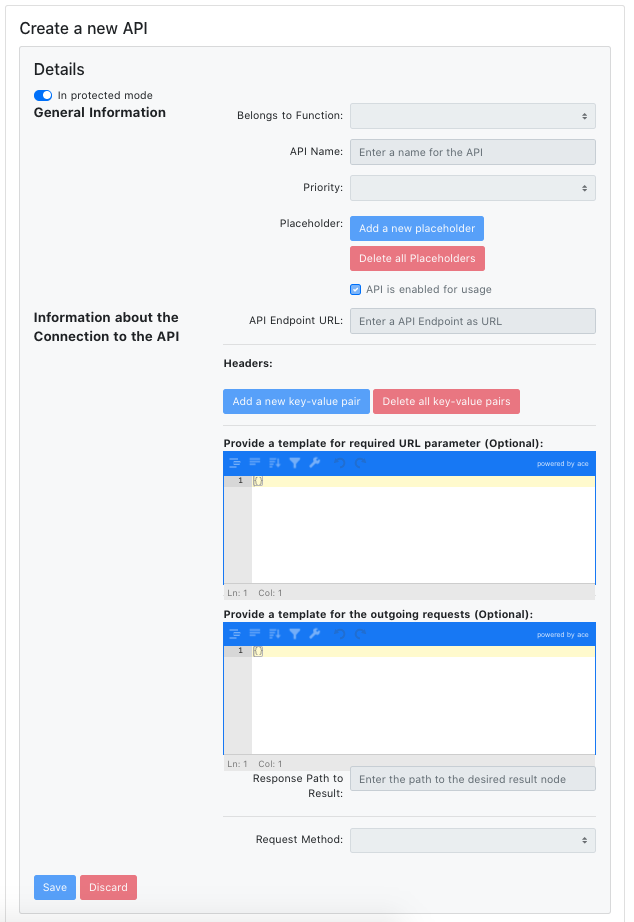
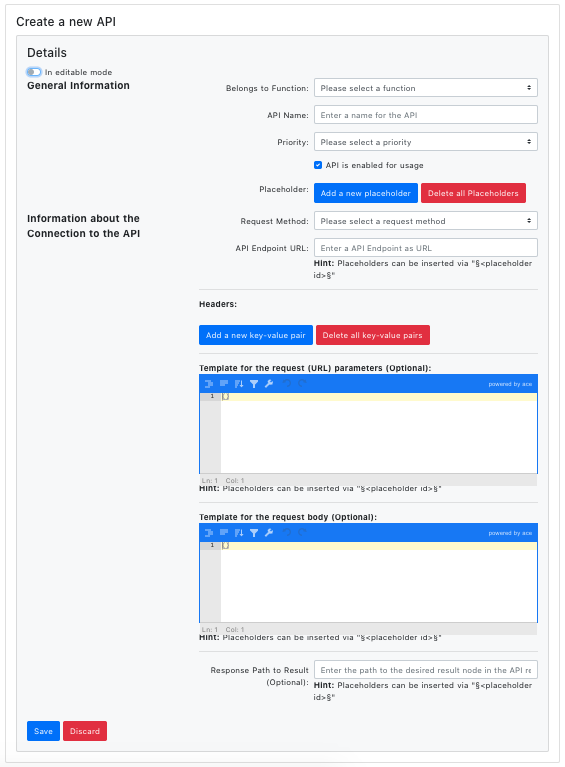
Changes requested by Tobias

diff --git a/user_guide/user_guide.md b/user_guide/user_guide.md
@@ -180,13 +180,13 @@ We now see a number of fields that can or have to be filled.
 
 **Category** specifies under which category the Function is listed in the Operations in the Routine creation.
 
-**Function ID** is a unique identifier for the Function that can be a custom string.
+**Function Name** is a unique identifier for the Function that can be a custom string.
 
 **Function Label** is the label that is displayed for the Operation in the Routine creation.
 
 A **result of a Function** is optional and can be deactived and activated with the "Function returns a Result Variable" checkbox.
 
-**Result ID** is a unique identifier for the result that can be a custom string.
+**Result Name** is a unique identifier for the result that can be a custom string.
 
 **Result Type** is the value type of the result.
 
@@ -198,7 +198,7 @@ A **result of a Function** is optional and can be deactived and activated with t
 
 **Function fields** are optional. They can be added and deleted. The button "Add a new field" adds an additional field. The button "Reset created fields" deletes all fields from this Function.
 
-**Field ID** is a unique identifier for the field that can be a custom string and can to be used in the API definition.
+**Field Name** is a unique identifier for the field that can be a custom string.
 
 **Field Type** is the value type of the field.
 
@@ -218,7 +218,7 @@ Here you can see an example of how the fields are defined for the "Retrieve Stoc
 
 #### Edit
 
-You can edit the fields Category and Function label as well as add addtional fields for existing Functions.
+You can edit the fields Category and Function label as well as add and remove fields for existing Functions. To avoid inconsistencies or a new validation of all existing APIs, it is not possible to make further changes to a function after its definition.
 
 *Click the "Edit existing Functions" button.*
 
@@ -263,15 +263,16 @@ In the editing mode you can also delete existing Functions. Please note that onc
 
 *Click on the switch next to "In protected mode" to make the fields editable.*
 
-We now see a number of fields that can or have to be filled according to the API call.
+We now see a number of fields to be filled in order to specify General Information about the API as well as how a call to this API must be performed in order to get the desired result for the associated function considering the specified function parameters.
+
 
 **Belongs to Function** is the Function that the API implements and can deliver a value for. Use the dropdown menu to select an existing Function.
 
 **API Name** is the name and unique identifier of the API.
 
-**Priority** specifies which API is used first for this Function. There are four different types of priority values: Preferred, High, Medium, Low. Preferred is the highest priority and can only be set onced. If set a second time, the former preferred API's priority will be downgraded.
+**Priority** specifies which order the APIs are used to evaluate this function (until one API call is successful). There are four different types of priority values: Preferred, High, Medium, Low. Preferred is the highest priority and can only be set once and is always assigned to exactly one API per Function. If set a second time, the former preferred API's priority will be downgraded. The preferred API determines which function fields are marked as required, i.e. must be specified when using this function, namely those fields that are required to apply this API.
 
-**Placeholders** are links to other values, namely Fields of the corresponding Function or results of other Functions. The Placeholder can be used in other parts of the API definition like Headers, Parameters or Body. You can use the Placeholders by inserting "§id§" where "id" is the id of the Placeholder. The string gets then replaced by the value of the placeholder i.e. field. You can *click the "Add a new placeholder", bin and "Delete all Placeholders" buttons to add and remove Placeholders.*
+**Placeholders** are Placeholders for other values, namely Fields of the corresponding Function or results of other Functions. The Placeholder can be used in other parts of the API definition: Parameters, response path or request body. You can use the Placeholders by inserting "§id§" where "id" is the id of the Placeholder. When an API is called, at first the placeholders are evaluated and afterwards this string gets then replaced by the evaluated value of the placeholder with the certain id.. The exact value of a placeholder is only known when the function is invoked, e.g. because it depends on inputs specified by the user. You can *click the "Add a new placeholder", bin and "Delete all Placeholders" buttons to add and remove Placeholders.*
 
 <br/>
 <kbd>
@@ -294,9 +295,9 @@ Alternatively to replacing the Placeholder by a Function field it can also be re
 
 **Placeholder Function name** specifies the Function the Placeholder receives the result from.
 
-**Placeholder Function Fields** can be set if the Function needs some fields to return the value.
+**Placeholder Function Fields** can be set if the Function needs some fields to return the value. You can specify fields of the auxiliary function either by selecting the value of a field of the function this API belongs to or by specifying a fix value rightaway. Make sure to specify at least all fields of the chosen function that are marked as required (see corresponding Function specification).
 
-Some API need the values in a String format or in a number format. *Uncheck the "Do not convert placeholder value to 'String' before insertion into a JSON template." checkbox to convert the Placeholder value to a string, check to leave the orginal value.*
+Placeholders can take potentially three primitive datatypes (string, number or boolean). In case of number  respectively boolean you can specify if this values should be converted to a string if they need to be inserted into a "URL Parameters Template" or "Request Body Template". *Uncheck the "Do not convert placeholder value to 'String' before insertion into a JSON template." checkbox to convert the Placeholder value to a string, check to leave the orginal value.* In case of a placeholder that receives a value of type string, it does not matter whether you check or uncheck this checkbox.
 
 You can add **Headers** to the API request.
 *Click the "Add a new key-value pair", bin and "Delete all key-value pairs" buttons to add and remove header fields*
@@ -307,15 +308,15 @@ You can add **Headers** to the API request.
 </kbd>
 <br/>
 
-In the "Provide a template for required URL parameter" field you can add **Parameters** in the JSON format to the API request.
+In the "Template for the request (URL) Parameters" field you can add **Parameters** in the JSON format to the API request. You can also insert parameters directly in the URL when specifying the "API Endpoint URL" field.
 
-In the "Provide a template for the outgoing requests" field you can add a **Body** in the JSON format to the API request.
+In the "Template for the request Body" field you can add a **Body** in the JSON format to the API request.
 
-**Response Path to Result** specifies how the API result is retrieved from the response body. The path is defined by a series of JSON keys that are seperate with a `.`. Elements in lists can be accessed via their index in square brackets `[index]`. The sample response path `devices.lamps[0].power` takes the value under the "devices" key, then the list under the "lamps" key, then the 0. element of that list and then the value under "power" key.
+**Response Path to Result** specifies how the API result is retrieved from the response body. The path is defined by a series of JSON keys that are seperate with a `.`. Elements in lists can be accessed via their index in square brackets `[index]`. The sample response path `devices.lamps[0].power` takes the value under the "devices" key, then the list under the "lamps" key, then the 0. element of that list and then the value under "power" key. If the response is a list itself you can start the path with `[index]`. It is mentionable, that you can also use placeholders in the response path.
 
 **Request Method** specifies which HTTP request method is used for the API request which can be selected from the dropdown menu.
 
-We show an example API definition, the Finnhub Finance API which translates a custom string to a company symbol with the Company Symbol Function.
+We show an example API definition, the Finnhub Finance API which returns the stock price of a company specified by a custom string.
 <br/>
 <kbd>
 <img src="../resources/images/create_api5.png" width="450">
@@ -323,7 +324,7 @@ We show an example API definition, the Finnhub Finance API which translates a cu
 </kbd>
 <br/>
 
-Let us put attention on how the Placeholder was used to call another Function with the input i.e. field of the original function and put the result of that Function in the API body template.
+Let us put attention on how the placeholder is evaluated by calling another function named "retrieve_company_symbol" and passing the value of the field "company_name" of the "stock_price" function to which this API belongs. The result of that function call, i.e. the company_symbol, is finally the value of this placeholder and thus inserted into the template given for the URL parameters.
 
 #### Edit
 
